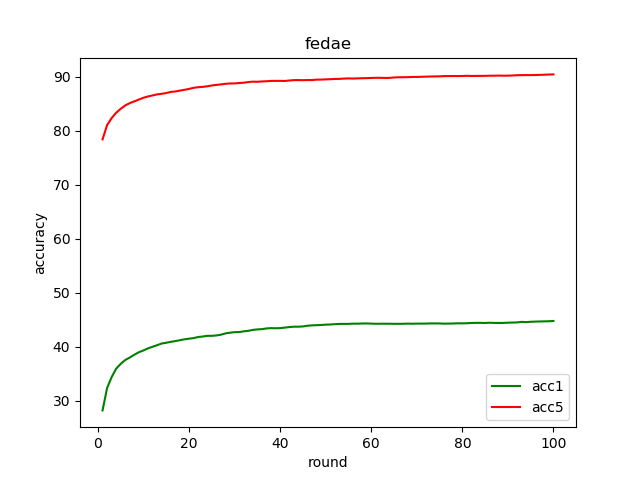
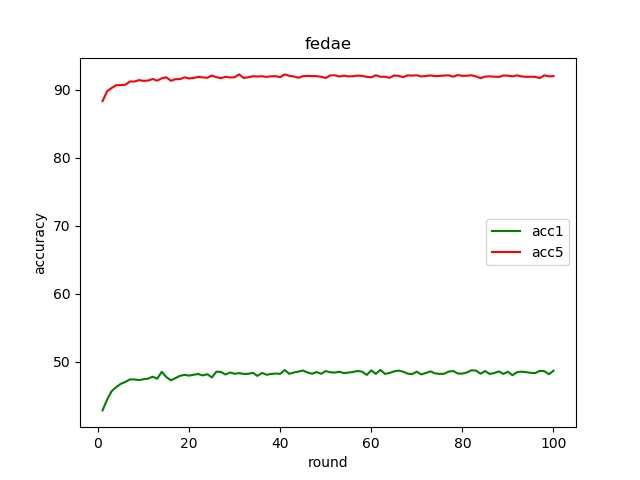
fix: loss

diff --git a/results/visualize.py b/results/visualize.py
@@ -2,35 +2,35 @@ from sys import argv
 from matplotlib import pyplot as plt
 import os
 import csv
+from datetime import date, datetime
 
-res_path = argv[1]
-filename = os.path.basename(res_path)
-acc1 = []
-acc5 = []
-# with open(res_path) as f:
-#     lines = f.readlines()
-#     for line in lines:
-#         l = line.split(" ")
-#         acc1.append(float(l[6][:-1]))
-#         acc5.append(float(l[9]))
-with open(res_path) as f:
-    reader = csv.reader(f)
-    for i, row in enumerate(reader):
-        if i==0:
-            continue
-        acc1.append(float(row[5]))
-        acc5.append(float(row[6]))
-        
+file_list = []
+for i in range(1, len(argv)):
+    file_list.append(argv[i])
+
+color_list = ['r', 'g', 'b', 'c', 'm', 'y', 'k']
 
 x = []
-for i, a in enumerate(acc1):
-    x.append(i+1)
-plt.plot(x, acc1, color='g', label='acc1')
-plt.plot(x, acc5, color='r', label='acc5')
-plt.xlabel('round')
+for idx, path in enumerate(file_list):
+    filename = os.path.basename(path)
+    acc1 = []
+    with open(path) as f:
+        reader = csv.reader(f)
+        for i, row in enumerate(reader):
+            if i==0:
+                continue
+            acc1.append(float(row[5]))
+    if idx==0:
+        x = range(1, len(acc1)+1) 
+    print()
+    plt.plot(x, acc1, color = color_list[idx], label = filename.split('_')[0]) 
+
+time = datetime.now()
+res_path = datetime.now().strftime('%Y%m%d%H%M%S_result.png')
+
+plt.xlabel('epoch')
 plt.ylabel('accuracy')
 plt.legend()
 
-plt.title(filename.split('_')[0])
-# plt.savefig('result.png')
-plt.savefig(res_path.replace('.csv', '.png'))
+print(res_path)
+plt.savefig(res_path)

diff --git a/cae/main.py b/cae/main.py
@@ -110,8 +110,11 @@ if __name__=='__main__':
     for epoch in bar:
         local_weights = []
         global_model.train()
+        m = max(int(args.frac * args.num_users), 1)
+        idxs_users = np.random.choice(range(args.num_users), m, replace=False)
+
         loss = 0
-        for i in range(args.num_users): #since fraction is 1
+        for i in idxs_users: #since fraction is 1
             local_model = LocalModel(args, train_data, user_groups[i], device)
             w, l = local_model.train(net = copy.deepcopy(global_model))
             local_weights.append(copy.deepcopy(w))

diff --git a/simclr/main.py b/simclr/main.py
@@ -170,7 +170,11 @@ if __name__ == '__main__':
     for epoch in tqdm(range(1, epochs + 1)):
         local_weights = []
         global_model.train()
-        for i in range(args.num_users):
+
+        m = max(int(args.frac * args.num_users), 1)
+        idxs_users = np.random.choice(range(args.num_users), m, replace=False)
+
+        for i in idxs_users:
             local_model = LocalModel(args, train_data, user_groups[i], device)
             w = local_model.train(net = copy.deepcopy(global_model))
             local_weights.append(copy.deepcopy(w))
